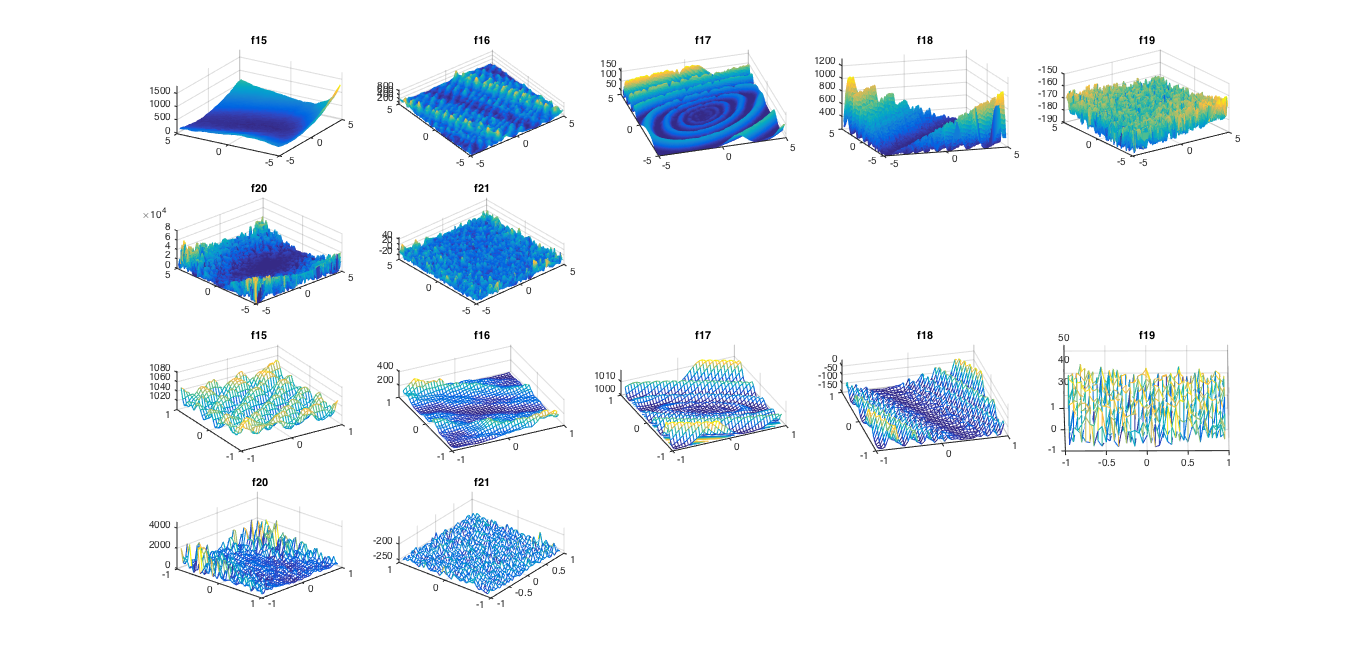
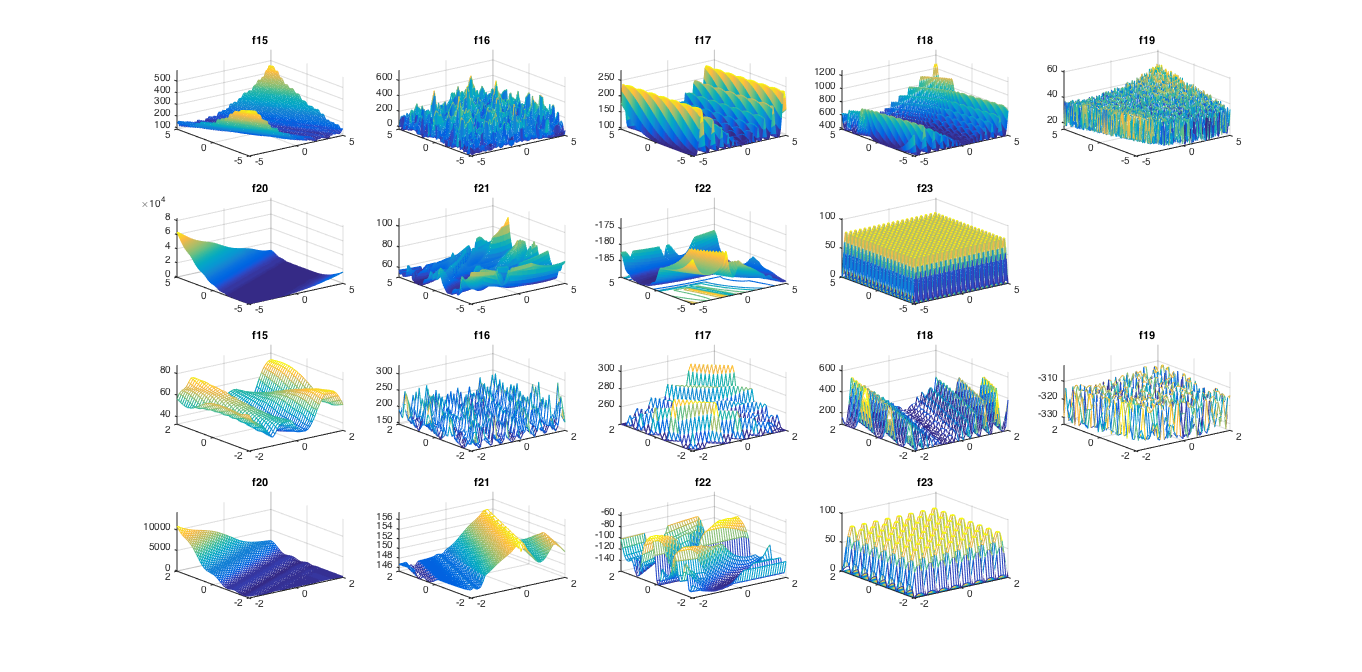
Anonymous + generating functions

diff --git a/libs/data_gen/f21.m b/libs/data_gen/f21.m
@@ -1,32 +1,35 @@
-function [ f21_y ] = f21( x, x_opt, f_opt, R, Q )
+function [ f ] = f21( D, x_opt, f_opt, R, Q )
 %F21 Gallagher?s Gaussian 101-me Peaks Function
 %   
 
-D = length(x);
-
-y = zeros(101, D);
-y(1,:) = rand(1,D) * 8 - 4;
-y(2:101,:) = rand(100,D) * (2 * 4.9) -  4.9;
-
-w = [10 (1.1 + 8 * ((2:101) - 2) / 99)];
-
-C(:,:,1) = lambda(1000, D) / (1000 ^ (1/4));
-for i = 2:101
-    j = round(rand() * 19);
-    alpha_i = 1000^(2*j/19);
-    lam = lambda(alpha_i, D);
-    C(:,:,i) = lam / alpha_i ^ (1/4);
-end
-
-max_x = -Inf;
-for i = 1:101 
-    curr = w(i) * exp( (-1/(2*D)) * (x - y(i,:)')' * R' * C(:,:,i) * R * (x - y(i,:)'));
-    if curr > max_x
-        max_x = curr;
+    w = [10 (1.1 + 8 * ((2:101) - 2) / 99)];
+    
+    C(:,:,1) = lambda(1000, D, 1) / (1000 ^ (1/4));
+    y = zeros(101,D);
+    y(1,:) = rand(1,D) * 8 - 4;
+    for k = 1:101
+        j = round(rand() * 19);
+        alpha_i = 1000^(2*j/19);
+        lam = lambda(alpha_i, D, 1);
+        C(:,:,k) = lam / alpha_i ^ (1/4);
+        y(k,:) = rand(1,D) * (2 * 4.9) -  4.9;
     end
-end
+    
+    function [ res ] = max_x(x)
 
-f21_y = T_osz(10 - max_x)^2 + f_pen(x) + f_opt;
+        max_x = -Inf;
+        for i = 1:101
+            curr = w(i) * exp( (-1/(2*D)) * (x - y(i,:)')' * R' * C(:,:,i) * R * (x - y(i,:)'));
+            if curr > max_x
+                max_x = curr;
+            end
+        end
+
+        res = max_x;
+        
+    end
+
+    f = @(x) ( T_osz(10 - max_x(x))^2 + f_pen(x) + f_opt );
 
 end
 

diff --git a/libs/data_gen/f20.m b/libs/data_gen/f20.m
@@ -1,22 +1,23 @@
-function [ y ] = f20( x, x_opt, f_opt, R, Q )
+function [ f ] = f20( D, x_opt, f_opt, R, Q )
 %F20 Schwefel Function
 %   
 
-D = length(x);
-ones_pm = round(rand(D,1)) * 2 - 1;
-x_hat = 2 * ones_pm .* x;
-x_opt = 4.2096874633/2 * ones_pm;
+    ones_pm = round(rand(D,1)) * 2 - 1;
+        
+    function [res] = z(x)
+        x_hat = 2 * ones_pm .* x;
+        x_opt = 4.2096874633/2 * ones_pm;
 
-z_hat = zeros(size(x));
-z_hat(1) = x(1);
-for I = 1:D-1
-    z_hat(I+1) = x(I+1) + 0.25 * (x_hat(I) - x_opt(I));
-end
+        z_hat = zeros(size(x));
+        z_hat(1) = x(1);
+        for I = 1:D-1
+            z_hat(I+1) = x(I+1) + 0.25 * (x_hat(I) - x_opt(I));
+        end
 
-z = 100 * (lambda(10, D) * (z_hat - x_opt) + x_opt);
+        res = 100 * (lambda(10, D) * (z_hat - x_opt) + x_opt);
+    end
 
-y = (-1/D) * sum( z .* sin(sqrt(z))) + 4.189828872724339 + 100 * f_pen(z / 100) + f_opt;
-y = real(y);
+    f = @(x) (real((-1/D) * sum( z(x) .* sin(sqrt(z(x)))) + 4.189828872724339 + 100 * f_pen(z(x) / 100) + f_opt));
 
 end
 

diff --git a/libs/data_gen/f16.m b/libs/data_gen/f16.m
@@ -1,4 +1,4 @@
-function [ y ] = f16( x, x_opt, f_opt, R, Q )
+function [ f ] = f16( D, x_opt, f_opt, R, Q )
 % Weierstrass Function
 % One parameter version:
 % a = 1/2;
@@ -14,24 +14,31 @@ function [ y ] = f16( x, x_opt, f_opt, R, Q )
 % plot(x,y);
 
 
-D = length(x);
-z = R * lambda(1/100, D) * Q * T_osz(R*(x - x_opt));
+    f_0 = 0;
 
-f_0 = 0;
-
-for k = 0:11
-    f_0 = f_0 + (1/2)^k * cos(pi*3^k);
-end
-
-y = 0;
-
-for i = 1:D
-    for k = 0:11
-        y = y + (1/2)^k * cos(2*pi*3^k*(z(i) + 1/2));
+    for j = 0:11
+        f_0 = f_0 + (1/2)^j * cos(pi*3^j);
     end
-end
 
-y = 10*(y/D - f_0)^3 + 10/D*f_pen(x) + f_opt;
+
+    function [res] = f16_compute(x)
+        
+        z = R * lambda(1/100, D) * Q * T_osz(R*(x - x_opt));
+
+        y = 0;
+
+        for i = 1:D
+            for k = 0:11
+                y = y + (1/2)^k * cos(2*pi*3^k*(z(i) + 1/2));
+            end
+        end
+
+        y = 10*(y/D - f_0)^3 + 10/D*f_pen(x) + f_opt;
+        
+        res = y;
+    end
+
+    f = @(x) f16_compute(x);
 
 end
 

diff --git a/libs/data_gen/f22.m b/libs/data_gen/f22.m
@@ -1,0 +1,34 @@
+function [ f ] = f22( D, x_opt, f_opt, R, Q )
+%F22 Gallagher?s Gaussian 21-hi Peaks Function
+%   
+
+    y = zeros(21, D);
+    y(1,:) = rand(1,D) * 8 - 4;
+    y(2:21,:) = rand(20,D) * (2 * 4.9) -  4.9;
+        
+    w = [10 (1.1 + 8 * ((2:21) - 2) / 19)];
+    alphas_ids = randperm(20) - 1;
+    C(:,:,1) = lambda(1000^2, D, 1) / (1000 ^ (2/4));
+    for k = 2:21
+        alpha_i = 1000^(2*alphas_ids(k - 1)/19);
+        lam = lambda(alpha_i, D, 1);
+        C(:,:,k) = lam / alpha_i ^ (1/4);
+    end
+        
+    function [ res ] = max_x(x) 
+        
+        max_x = -Inf;
+        for i = 1:21
+            curr = w(i) * exp( (-1/(2*D)) * (x - y(i,:)')' * R' * C(:,:,i) * R * (x - y(i,:)'));
+            if curr > max_x
+                max_x = curr;
+            end
+        end
+        
+        res = max_x;
+    end
+
+    f = @(x) ( T_osz(10 - max_x(x))^2 + f_pen(x) + f_opt);
+
+end
+

diff --git a/2014-11-16/playground.m b/2014-11-16/playground.m
@@ -1,10 +1,7 @@
-function [ ] = plot3d( func, range )
+
 
 D = 2;
-
-if nargin < 2
-    range = 5;
-end
+range = 5;
 
 xmin = -range; xmax = range;
 ymin = -range; ymax = range;
@@ -13,22 +10,26 @@ x_opt_val = zeros(D,1);%x_opt(D);
 f_opt_val = f_opt();
 [Q, R] = qr(randn(D));
 
-f = func(D, x_opt_val, f_opt_val, R, Q);
+f = f19(D, x_opt_val, f_opt_val, R, Q);
+
 
 ran = xmin:0.1:xmax;
 N = length(ran)*length(ran);
 
 X = zeros(D, N);
 Y = zeros(N, 1);
-
+    
 i = 1;
 for x_1 = ran
     for x_2 = ran
 
         x = [x_1 x_2]';
         X(:, i) = x;
-        
-        y = f(x);
+
+        y = real(log(f(x) - f_opt_val) / log(10));
+        if ~isreal(y)
+            display(y)
+        end
         Y(i) = y;
 
         i = i + 1;
@@ -46,7 +47,4 @@ zmax = max(Y);
 zmax = zmax + (zmax - zmin) * 0.3;
 
 axis([xmin xmax ymin ymax zmin zmax]);
-title(func2str(func));
-
-end
-
+title(func2str(f));

diff --git a/libs/data_gen/f18.m b/libs/data_gen/f18.m
@@ -1,14 +1,18 @@
-function [ y ] = f18( x, x_opt, f_opt, R, Q )
+function [ f ] = f18( D, x_opt, f_opt, R, Q )
 %F_18 Schaffers F7 Function moderately ill conditioned
 %  instead of lambda(10, D) uses lambda(1.5, D)
 %  instead of T_asy(..., 0.5) uses 0.1
 
-D = length(x);
-z = lambda(1000, D) * Q * T_asy(R*(x - x_opt), 0.12);
-%z = x;
-s = sqrt(z.^2 + [z(2:D); 0].^2);
-y = ((1/(D-1)) * sum(sqrt(s(1:D-1)) + sqrt(s(1:D-1))*(sin(50 * s(1:D-1) .^ (1/5)))))^2 + 10 * f_pen(x) + f_opt;
+    function [ res ] = f18_compute(x)
+        
+        z = lambda(1000, D) * Q * T_asy(R*(x - x_opt), 0.12);
+        %z = x;
+        s = sqrt(z.^2 + [z(2:D); 0].^2);
+        res = ((1/(D-1)) * sum(sqrt(s(1:D-1)) + sqrt(s(1:D-1))*(sin(50 * s(1:D-1) .^ (1/5)))))^2 + 10 * f_pen(x) + f_opt;
 
+    end
+
+    f = @(x) f18_compute(x);
 
 end
 

diff --git a/libs/data_gen/f17.m b/libs/data_gen/f17.m
@@ -1,14 +1,15 @@
-function [ y ] = f17( x, x_opt, f_opt, R, Q )
+function [ f ] = f17( D, x_opt, f_opt, R, Q )
 %F_17 Schaffers F7 Function
 %  instead of lambda(10, D) uses lambda(1.5, D)
 %  instead of T_asy(..., 0.5) uses 0.1
 
-D = length(x);
-z = lambda(10, D) * Q * T_asy(R*(x - x_opt), 0.12);
-%z = x;
-s = sqrt(z.^2 + [z(2:D); 0].^2);
-y = ((1/(D-1)) * sum(sqrt(s(1:D-1)) + sqrt(s(1:D-1))*(sin(50 * s(1:D-1) .^ (1/5)))))^2 + 10 * f_pen(x) + f_opt;
+    function [res] = f17_compute(x)
+        z = lambda(10, D) * Q * T_asy(R*(x - x_opt), 0.12);
+        %z = x;
+        s = sqrt(z.^2 + [z(2:D); 0].^2);
+        res = ((1/(D-1)) * sum(sqrt(s(1:D-1)) + sqrt(s(1:D-1))*(sin(50 * s(1:D-1) .^ (1/5)))))^2 + 10 * f_pen(x) + f_opt;
+    end
 
-
+    f = @(x) f17_compute(x);
 end
 

diff --git a/libs/data_gen/f19.m b/libs/data_gen/f19.m
@@ -1,14 +1,14 @@
-function [ y ] = f19( x, x_opt, f_opt, R, Q )
+function [ f ] = f19( D, x_opt, f_opt, R, Q )
 %F19 Composite Griewank-Rosenbrock Function F8F2
 %   
 
-D = length(x);
+    function [res] = s(x) 
+        z = max(1, sqrt(D) / 8) * R * x + 0.5;
+        res = 100 * (z.^2 - [z(2:D); 0].^2) + (z - 1) .^ 2;
+        res = res(1:D-1);
+    end
 
-z = max(1, sqrt(D) / 8) * R * x + 0.5;
-s = 100 * (z.^2 - [z(2:D); 0].^2) + (z - 1) .^ 2;
-z_opt = 1;
-
-y = (10 / (D - 1)) * sum ( s(1:D-1) / 4000 - cos(s(1:D-1)) ) + 10 + f_opt;
+    f = @(x) ((10 / (D - 1)) * sum ( s(x) / 4000 - cos(s(x)) ) + 10 + f_opt);
 
 end
 

diff --git a/libs/data_gen/f23.m b/libs/data_gen/f23.m
@@ -1,0 +1,21 @@
+function [ f ] = f23( D, x_opt, f_opt, R, Q )
+%F23 Katsuura Function
+%   Properties Highly rugged and highly repetitive function with more than 10D global optima
+
+function [s] = z_sum(x) 
+
+    z = Q * lambda(100, D) * R * (x - x_opt);
+    z = x;
+    z_sum = 0;
+    for i = 1:32
+        z_sum = z_sum + abs( 2 ^ i * z - round( 2 ^ i * z ) ) / 2 ^ i;
+    end
+    
+    s = z_sum;
+
+end
+
+f = @(x) ( 10 / (D ^ 2) * prod( 1 + (1:D) .* z_sum(x)' ) ^ (10 / D ^ 1.2) - 10 / D ^ 2 + f_pen(x) );
+
+end
+

diff --git a/libs/data_gen/f15.m b/libs/data_gen/f15.m
@@ -1,8 +1,11 @@
-function [ y ] = f15( x, x_opt, f_opt, R, Q )
+function [ f ] = f15( D, x_opt, f_opt, R, Q )
 
-D = length(x);
-z = R * lambda(10, D) * Q * T_asy(T_osz(R*(x - x_opt)),0.2);
-y = 10 * (D - sum(cos(2*pi*z))) + sum(z.^2) + f_opt;
+    function [res] = f15_compute(x)
+        z = R * lambda(10, D) * Q * T_asy(T_osz(R*(x - x_opt)),0.2);
+        res = 10 * (D - sum(cos(2*pi*z))) + sum(z.^2) + f_opt;
+    end
+
+    f = @(x) f15_compute(x);
 
 end
 

diff --git a/libs/data_gen/plotAll.m b/libs/data_gen/plotAll.m
@@ -7,7 +7,7 @@ if nargin < 3
 end
 
 if nargin < 2
-    to = 21;
+    to = 23;
 end
 
 if nargin < 1
@@ -25,7 +25,7 @@ for I = 1:num
         plot3d(str2func(strcat('f', int2str(no))));
         
         subplot(rows*2, cols, rows*cols+I);
-        plot3d(str2func(strcat('f', int2str(no))), 0, 0, 1);
+        plot3d(str2func(strcat('f', int2str(no))), 2);
     catch
         fprintf('Cannot plot3d f%d\n', no);
     end

diff --git a/2014-11-15/playground.m b/2014-11-15/playground.m
@@ -5,3 +5,20 @@ C(:,:,2) = ones(3,3) * 2;
 C(:,:,3) = ones(3,3) * 3;
 
 %%
+
+x = 0:0.0001:0.25;
+y = zeros(size(x));
+
+for k = 1:length(x)
+    D = 1;
+    z = x(k);
+    z_sum = 0;
+    for i = 1:32
+        z_sum = z_sum + abs( 2 ^ i * z - round( 2 ^ i * z ) ) / 2 ^ i;
+    end
+
+    y_ = 10 / (D ^ 2) * prod( 1 + (1:D) .* z_sum' ) ^ (10 / D ^ 1.2) - 10 / D ^ 2 + f_pen(x);
+    y(k) = y_;
+end
+
+plot(x,y);
